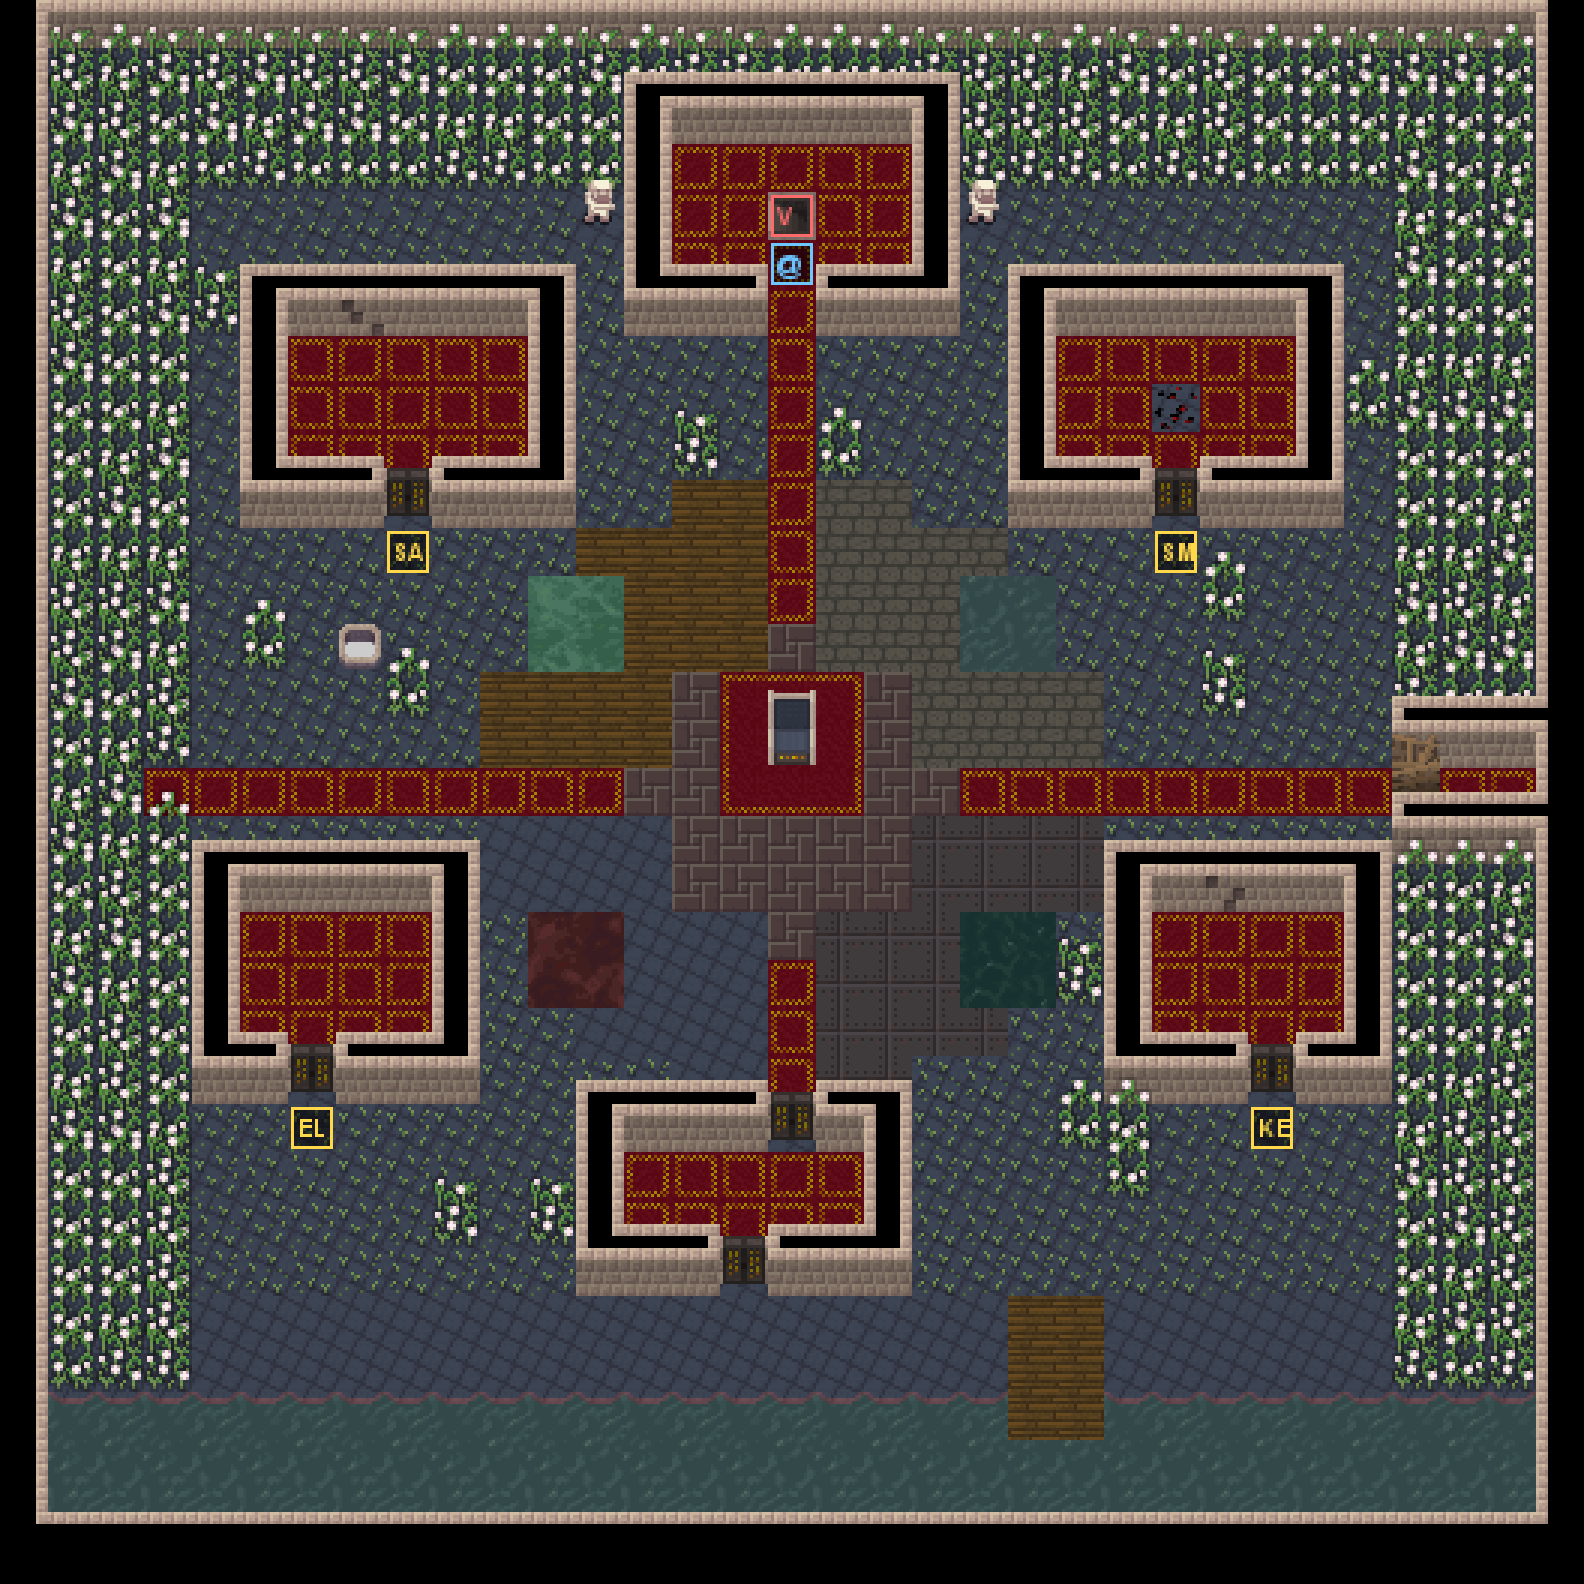
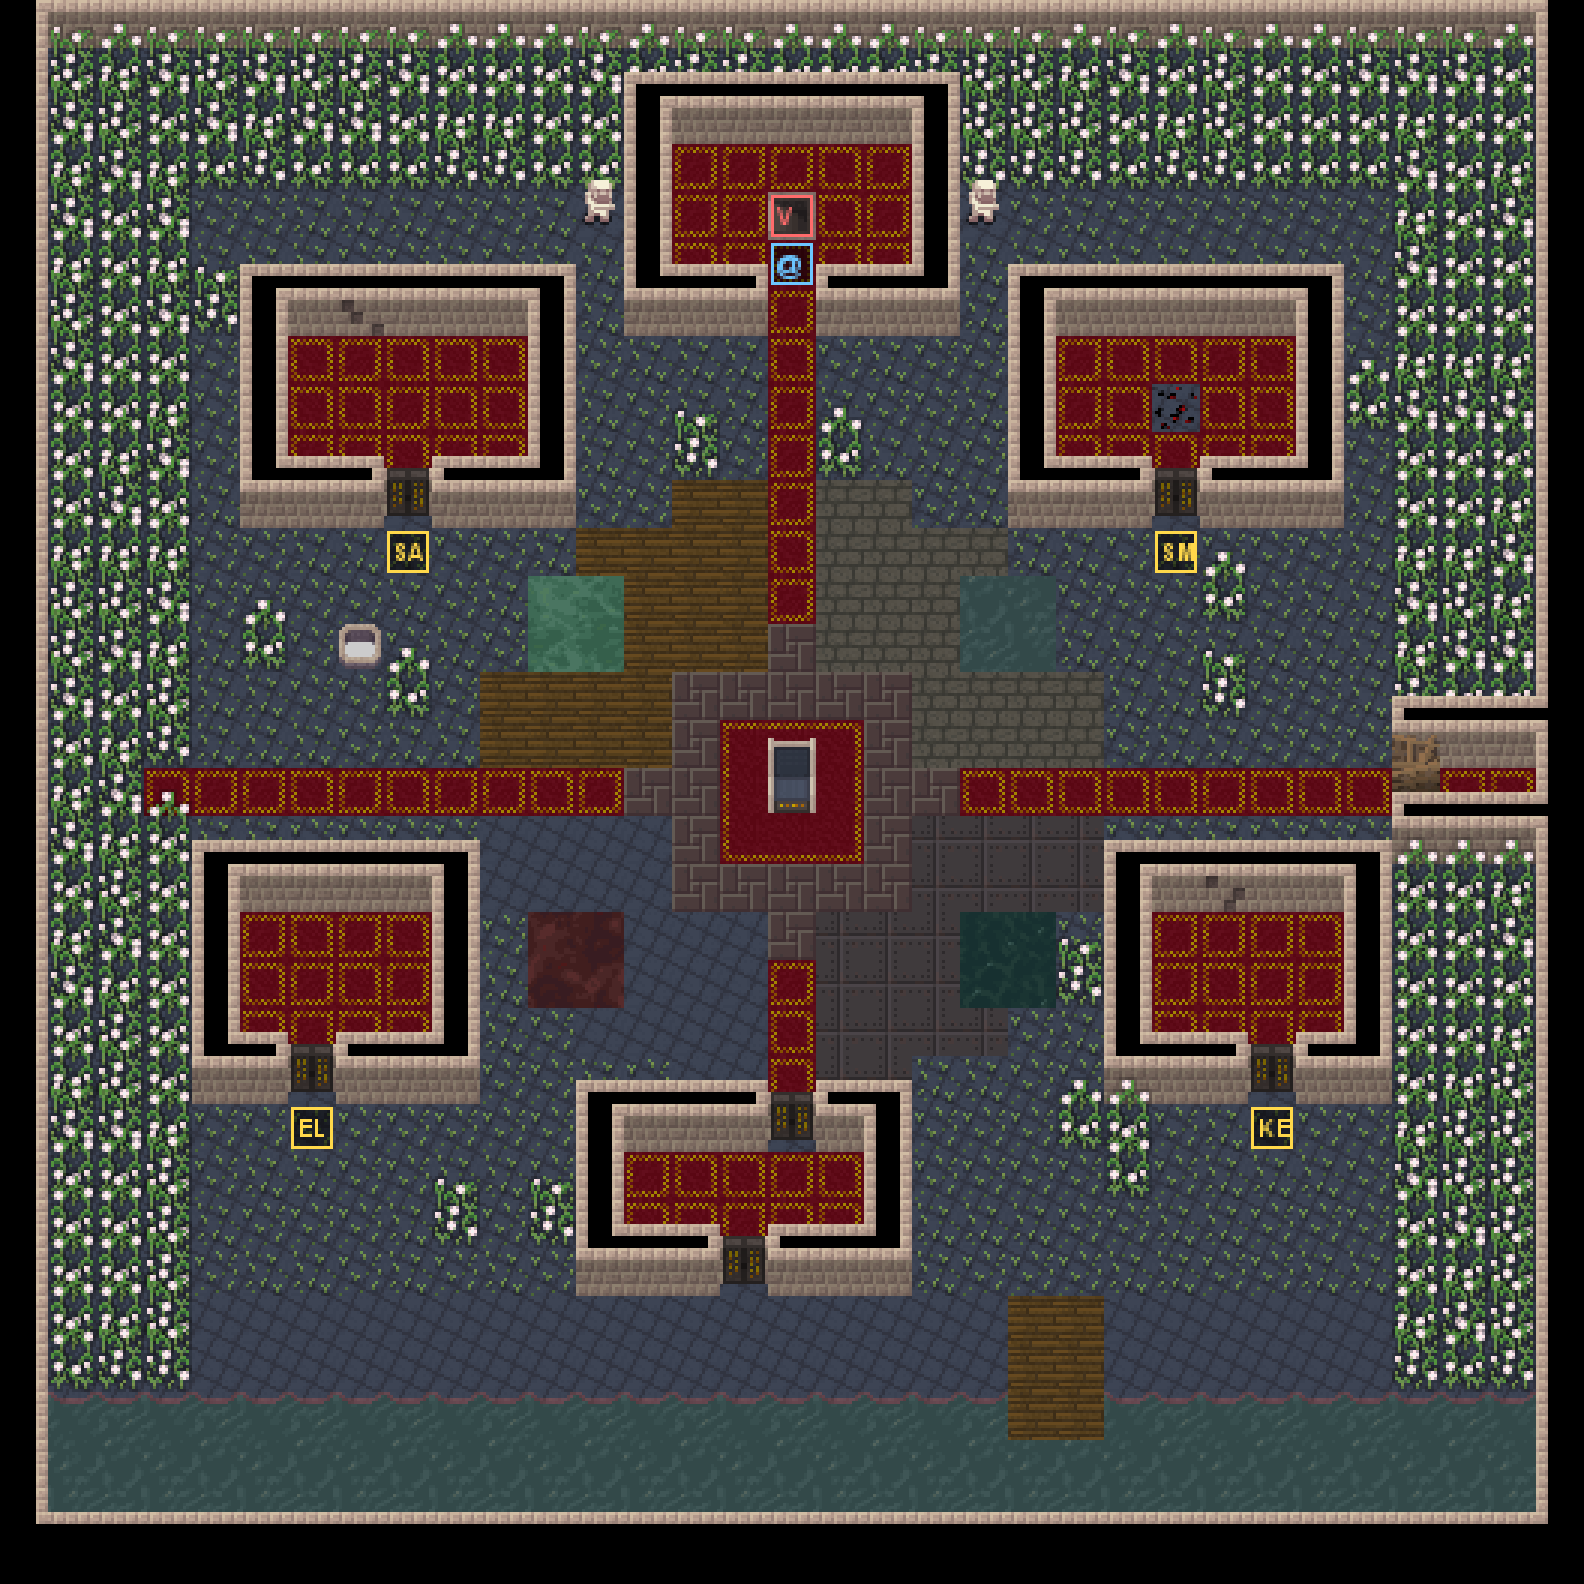
Seat the deepest echo in the throne
The Halls post stood one square in front of the chair, which left the throne
an ornament nobody used and read as the champion queuing for it. The seat
moves down onto the dead centre of the disc and the post moves onto the seat,
so the reigning Halls echo is found sitting in it.

That means the seat can no longer be Terrain.CUSTOM_DECO: it stays the disc's
own walkable paving, and the chair is drawn entirely by the tilemap above it.

Changed region(s): [[0.4331, 0.4021, 0.5568, 0.5568]]

diff --git a/core/src/main/java/com/shatteredpixel/shatteredpixeldungeon/village/EchoAltar.java b/core/src/main/java/com/shatteredpixel/shatteredpixeldungeon/village/EchoAltar.java
@@ -45,9 +45,12 @@ public final class EchoAltar {
 	public static final int DAIS_TOP = CENTRE_Y - DAIS_REACH - 1;
 	public static final int DAIS_SPAN = (DAIS_REACH + 1) * 2 + 1;
 
-	/** The throne's seat. Solid, so nobody ever stands on it. */
-	public static final int THRONE_SEAT_X = 16;
-	public static final int THRONE_SEAT_Y = 15;
+	/**
+	 * The throne's seat, dead centre of the disc. Walkable: the deepest echo is
+	 * meant to be found sitting in the chair rather than standing in front of it.
+	 */
+	public static final int THRONE_SEAT_X = CENTRE_X;
+	public static final int THRONE_SEAT_Y = CENTRE_Y;
 
 	/** Not part of the altar. */
 	public static final int NONE = 0;
@@ -64,7 +67,7 @@ public final class EchoAltar {
 	 * order and not something to "correct" into geometric order.
 	 */
 	public static final int[] POST_X = { 13, 19, 19, 13, THRONE_SEAT_X };
-	public static final int[] POST_Y = { 13, 13, 19, 19, 17 };
+	public static final int[] POST_Y = { 13, 13, 19, 19, THRONE_SEAT_Y };
 
 	private EchoAltar() {
 	}

diff --git a/core/src/test/java/com/shatteredpixel/shatteredpixeldungeon/village/VillageFigurePlacementTest.java b/core/src/test/java/com/shatteredpixel/shatteredpixeldungeon/village/VillageFigurePlacementTest.java
@@ -218,14 +218,17 @@ class VillageFigurePlacementTest {
 	}
 
 	@Test
-	@DisplayName("Nobody stands on the throne itself")
-	void nobodyStandsOnTheThrone() {
+	@DisplayName("The deepest echo stands in the throne")
+	void theDeepestEchoStandsInTheThrone() {
 		VillageLevel level = village();
 
 		int seat = level.cell(EchoAltar.THRONE_SEAT_X, EchoAltar.THRONE_SEAT_Y);
-		Assertions.assertThat(level.solid[seat]).as("the throne is solid").isTrue();
-		Assertions.assertThat(level.passable[seat]).as("the throne is not walkable").isFalse();
-		Assertions.assertThat(allAnchors(level)).doesNotContain(seat);
+		Assertions.assertThat(level.passable[seat]).as("the seat is stood on").isTrue();
+
+		int[] posts = VillageFigurePlacement.depthPosts(level);
+		Assertions.assertThat(posts[posts.length - 1])
+				.as("the deepest echo takes the chair")
+				.isEqualTo(seat);
 	}
 
 	@Test

diff --git a/core/src/test/java/com/shatteredpixel/shatteredpixeldungeon/village/EchoAltarTest.java b/core/src/test/java/com/shatteredpixel/shatteredpixeldungeon/village/EchoAltarTest.java
@@ -235,6 +235,18 @@ class EchoAltarTest {
 	}
 
 	@Test
+	@DisplayName("The deepest echo sits in the throne, at the middle of the altar")
+	void theDeepestEchoSitsInTheThrone() {
+		int deepest = EchoAltar.POST_X.length - 1;
+
+		Assertions.assertThat(EchoAltar.POST_X[deepest]).isEqualTo(EchoAltar.THRONE_SEAT_X);
+		Assertions.assertThat(EchoAltar.POST_Y[deepest]).isEqualTo(EchoAltar.THRONE_SEAT_Y);
+		Assertions.assertThat(EchoAltar.isThroneSeat(EchoAltar.CENTRE_X, EchoAltar.CENTRE_Y))
+				.as("the chair stands on the centre of the disc")
+				.isTrue();
+	}
+
+	@Test
 	@DisplayName("Each basin holds its own region's water, and no two hold the same")
 	void eachBasinHoldsItsOwnRegionsWater() {
 		Assertions.assertThat(AltarPool.waterFor(EchoAltar.SEWERS))

diff --git a/core/src/main/java/com/shatteredpixel/shatteredpixeldungeon/village/AltarThrone.java b/core/src/main/java/com/shatteredpixel/shatteredpixeldungeon/village/AltarThrone.java
@@ -31,8 +31,8 @@ import com.watabou.noosa.Tilemap;
  * and it assumes a data index that equals the level cell index. Neither holds
  * here, so the nine tiles are written out instead.
  *
- * <p>The seat itself is {@code Terrain.CUSTOM_DECO} and therefore solid, so no
- * echo and no villager ever ends up standing in the chair.
+ * <p>The seat is left walkable on purpose: the deepest echo's post is the chair
+ * itself, so the reigning Halls champion is found sitting in it.
  */
 public class AltarThrone extends CustomTilemap implements AltarOverlay {
 

diff --git a/core/src/test/java/com/shatteredpixel/shatteredpixeldungeon/tools/VillageMapRenderer.java b/core/src/test/java/com/shatteredpixel/shatteredpixeldungeon/tools/VillageMapRenderer.java
@@ -263,7 +263,7 @@ public final class VillageMapRenderer {
 			+ "\n"
 			+ "the altar - all one paving underneath, the letter is what is drawn on it\n"
 			+ "  *  walkway          H  raised dais          h  step tread\n"
-			+ "  @  throne seat, solid - nobody stands on it\n"
+			+ "  @  throne seat - the deepest echo sits here, so it usually reads 5\n"
 			+ "  s  sewers quarter   p  prison   c  caves    y  city\n"
 			+ "  S  sewers basin     P  prison   C  caves    Y  city   - each its own water\n"
 			+ "\n"

diff --git a/core/src/main/java/com/shatteredpixel/shatteredpixeldungeon/levels/VillageLevel.java b/core/src/main/java/com/shatteredpixel/shatteredpixeldungeon/levels/VillageLevel.java
@@ -232,9 +232,6 @@ public class VillageLevel extends Level {
 				}
 			}
 		}
-		// the throne itself is solid, so the seat is never stood on
-		map[cell(EchoAltar.THRONE_SEAT_X, EchoAltar.THRONE_SEAT_Y)] = Terrain.CUSTOM_DECO;
-
 		// a basin in each quarter, holding that region's own water. Real water
 		// terrain, so it behaves like water; the region's colour comes from the
 		// AltarPool laid over it, since a level only has one water texture

diff --git a/docs/village/village-redesign.md b/docs/village/village-redesign.md
@@ -94,7 +94,7 @@ Honorable mentions stay in their existing cluster around the well.
 | Halls centre | A fifth `CustomTilemap` on `TILES_HALLS`. |
 | Basins | A 2×2 basin of `Terrain.WATER` in each quarter, with an [`AltarPool`](../../core/src/main/java/com/shatteredpixel/shatteredpixeldungeon/village/AltarPool.java) laid over it drawing that region's own water image (`water0..3.png`). A level has one water texture, so four different waters cannot be terrain — the region's colour has to come from the overlay. The cost is that these basins neither ripple nor take the sheet's shoreline stitching, both of which the overlay draws above; worked stone basins with a hard edge is the reading that follows. |
 | Dock | [`VillageDock`](../../core/src/main/java/com/shatteredpixel/shatteredpixeldungeon/village/VillageDock.java), east of the road down through town, planked with the **sewers** sheet's `FLOOR_SP`. The city sheet has no wood on it at all — its worked floor is the walkway's red carpet, so a dock in the level's own tiles reads as a rug on the water. |
-| Throne | A sixth `CustomTilemap` on `Assets.Environment.CITY_BOSS`, painted over `Terrain.CUSTOM_DECO` — the same recipe as [`CityBossLevel.CustomGroundVisuals`](../../core/src/main/java/com/shatteredpixel/shatteredpixeldungeon/levels/CityBossLevel.java). Throne tiles are `13*8+1..3`, `14*8+1..3`, `15*8+1..3`; shadow is `13*8+5` on the wall layer. |
+| Throne | A sixth `CustomTilemap` on `Assets.Environment.CITY_BOSS`, art borrowed from [`CityBossLevel.CustomGroundVisuals`](../../core/src/main/java/com/shatteredpixel/shatteredpixeldungeon/levels/CityBossLevel.java). Throne tiles are `13*8+1..3`, `14*8+1..3`, `15*8+1..3`; shadow is `13*8+5` on the wall layer. The seat sits on the dead centre of the disc and stays **walkable** — unlike the arena's `Terrain.CUSTOM_DECO`, because the deepest echo's post *is* the chair: the reigning Halls champion is found sitting in it, not standing in front of it. |
 | Raised dais | The halls sheet's worked floor over a 5×5 centre, with a step tread where each arm of the walkway meets it. *(The sketch's elevation ring on `customWalls` is not built — it needs art the halls sheet does not contain.)* |
 | Walkway | Carpet cross through the disc — north to the dungeon gate, south to the tavern and dock, east/west to the wood-paths. |
 | Occupants | The existing `VillageEcho` pattern: `PASSIVE` + `IMMOVABLE` NPC, `level.mobs.add(body)` then `GameScene.addSprite(body)`, as in [`VillageFigures.java`](../../core/src/main/java/com/shatteredpixel/shatteredpixeldungeon/village/VillageFigures.java). |
